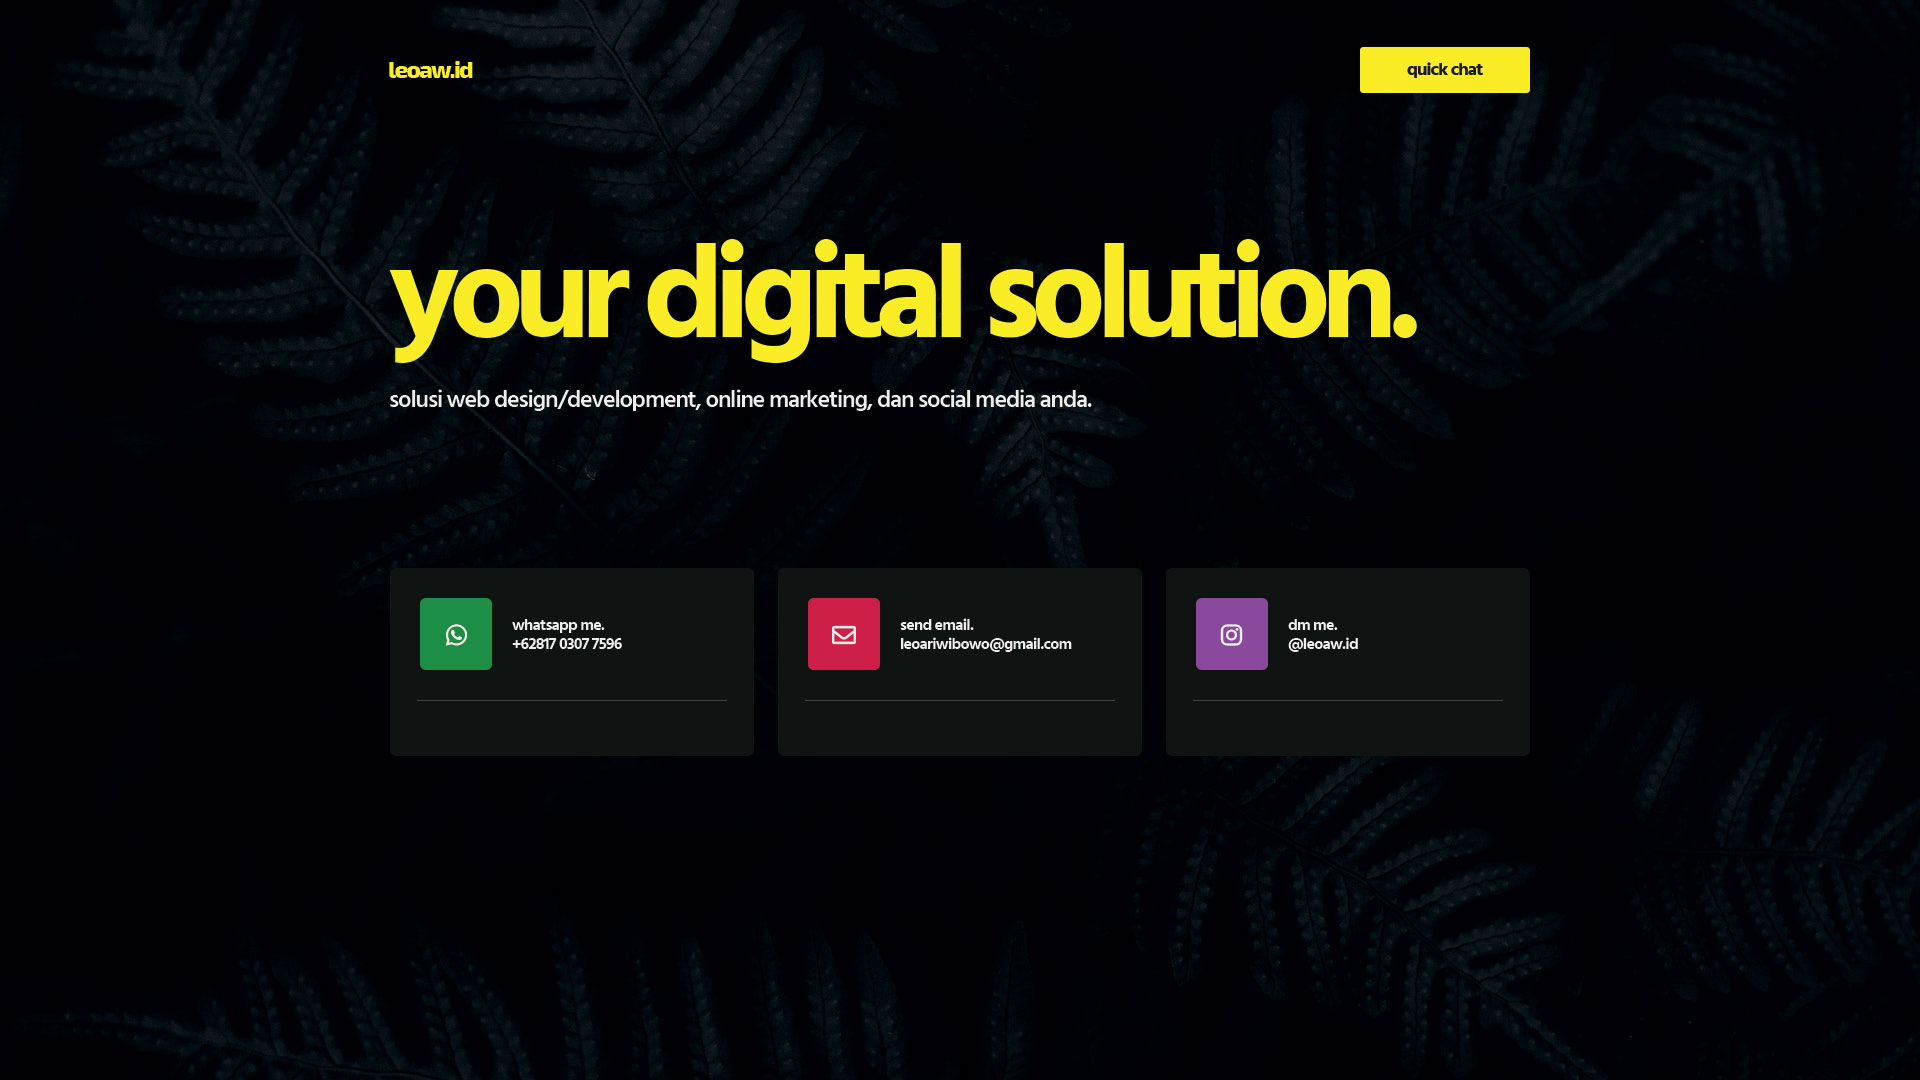
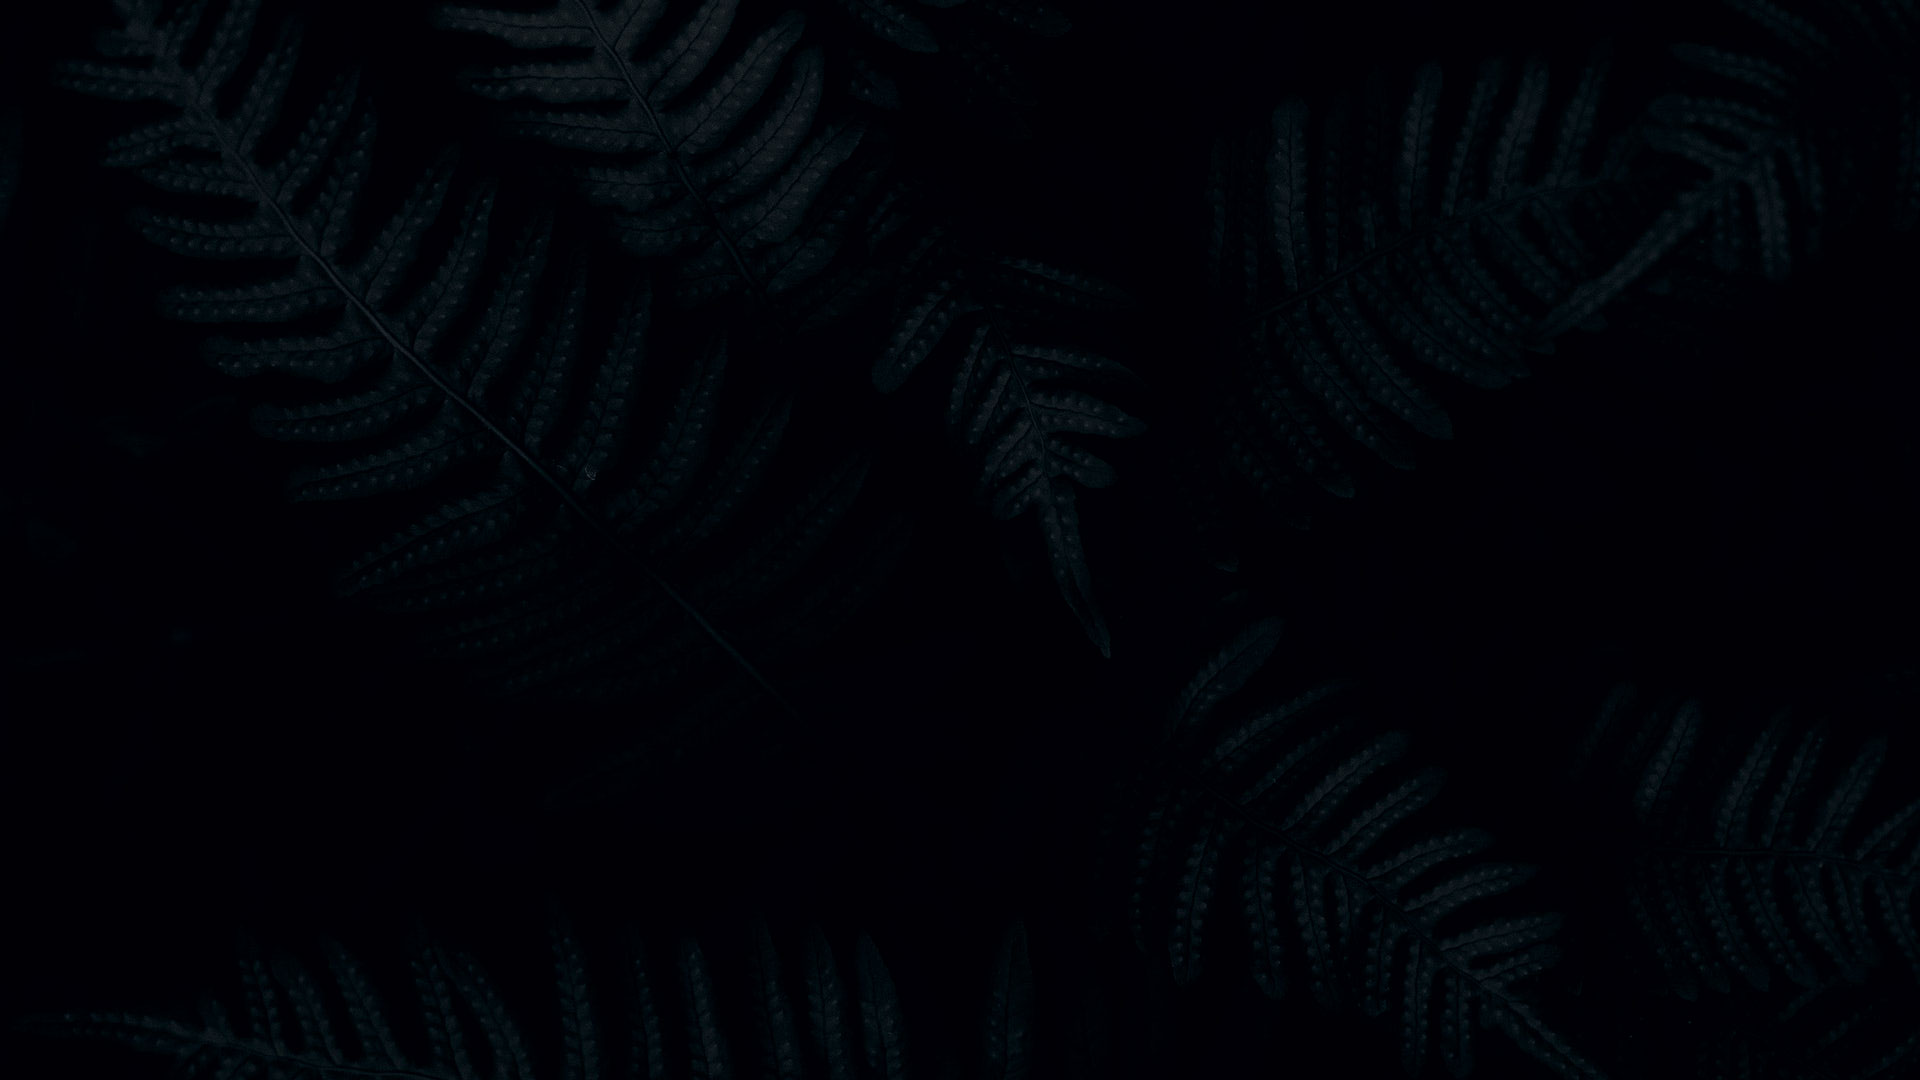
Update

diff --git a/index.html b/index.html
@@ -8,14 +8,16 @@
 </head>
 <body>
    
-   <div id="wrapper">
-       <div class="header">
-           <div class="logo">
-               <span>leoaw.id</span>
-           </div>
-           <div class="chat">
-               <div data-id="69958d55d6" class="livechat_button">
-                   <a href="https://www.livechatinc.com/?utm_source=chat_button&utm_medium=referral&utm_campaign=lc_11681490">quick chat</a>
+   <div id="container">
+       <div class="wrapper">
+           <div class="header">
+               <div class="logo">
+                   <span>leoaw.id</span>
+               </div>
+               <div class="chat">
+                   <div data-id="69958d55d6" class="livechat_button">
+                       <a href="https://www.livechatinc.com/?utm_source=chat_button&utm_medium=referral&utm_campaign=lc_11681490">quick chat</a>
+                   </div>
                </div>
            </div>
        </div>

diff --git a/assets/css/style.css b/assets/css/style.css
@@ -102,11 +102,16 @@ p {
   text-align: justify; }
 
 /* WRAPPER */
-#wrapper {
+#container {
+  height: 100vh;
+  width: 100vw;
+  background: url(../images/HOMEPAGE.jpg) top center no-repeat; }
+
+.wrapper {
   max-width: 1200px;
   margin-left: auto;
   margin-right: auto; }
-  #wrapper::after {
+  .wrapper::after {
     clear: both;
     content: "";
     display: block; }
@@ -142,7 +147,6 @@ p {
   width: 48.82117%;
   font-weight: 900;
   font-size: 16px;
-  letter-spacing: -1px;
   color: #242424;
   text-align: right;
   padding-top: 2px; }

diff --git a/scss/style.scss b/scss/style.scss
@@ -115,7 +115,12 @@ p {
 }
 
 /* WRAPPER */
-#wrapper {
+#container {
+    height: 100vh;
+    width: 100vw;
+    background: url(../images/HOMEPAGE.jpg) top center no-repeat;
+}
+.wrapper {
     @include outer-container;
 }
 .header {
@@ -138,7 +143,6 @@ p {
     @include span-columns(6 of 12);
     font-weight: 900;
     font-size: 16px;
-    letter-spacing: -1px;
     color: $black;
     text-align: right;
     padding-top: 2px;
